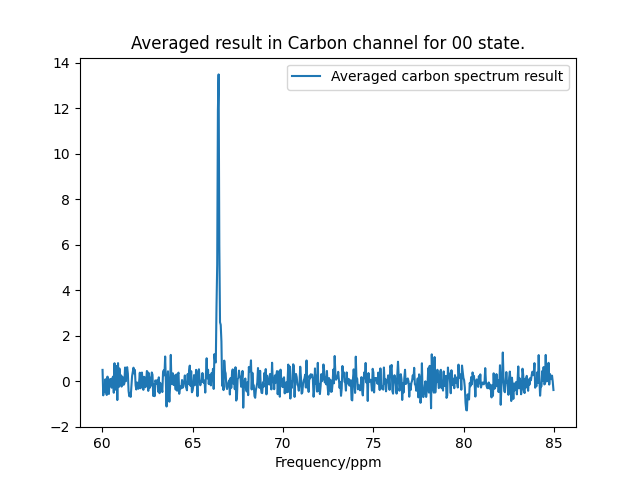
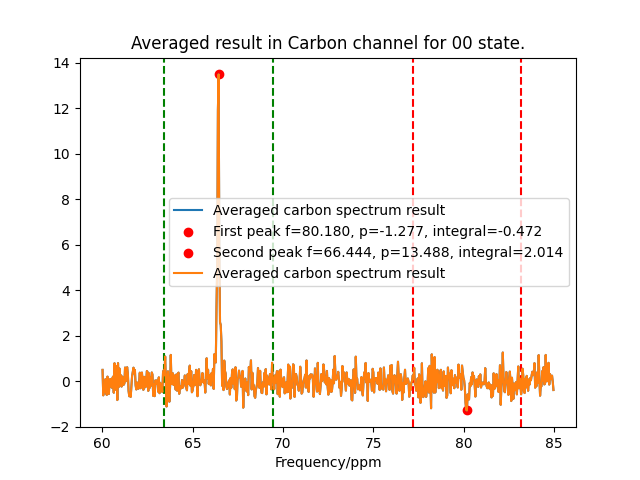
Support integration

diff --git a/Simulator/NMRdensity.py b/Simulator/NMRdensity.py
@@ -3,6 +3,38 @@ from Simulator.Pulses import pulse, pulseSingle, pulseTwo, delayTime, BarrierPul
 from Simulator.params import *
 import pandas as pd
 from Simulator.util import *
+from scipy.integrate import simps
+
+proton_int_range = 3
+carbon_int_range = 3
+
+
+def integrate_spectrum(X, Y, xmin, xmax):
+    """
+    Integrates the spectrum data between xmin and xmax.
+
+    Parameters:
+    - X: List of positions.
+    - Y: List of spectrum data corresponding to the positions.
+    - xmin: Minimum value of X for integration.
+    - xmax: Maximum value of X for integration.
+
+    Returns:
+    - The numerical integral of the spectrum data between xmin and xmax.
+    """
+    # Convert lists to numpy arrays for efficient operations
+    X_array = np.array(X)
+    Y_array = np.array(Y)
+
+    # Filter the arrays to include only the range between xmin and xmax
+    mask = (X_array >= xmin) & (X_array <= xmax)
+    X_filtered = X_array[mask]
+    Y_filtered = Y_array[mask]
+
+    # Use Simpson's rule for numerical integration over the filtered range
+    integral = simps(Y_filtered, X_filtered)
+
+    return integral
 
 
 def thermal_equilibrium_density():
@@ -83,9 +115,11 @@ class chloroform:
         self._data_proton_ppm = []
         self._data_proton_freq_domain_real = []
         self._data_proton_peaks_real = []
+        self._data_proton_peaks_integral_real = []
         self._data_proton_peaks_pos_real = []
         self._data_proton_freq_domain_imag = []
         self._data_proton_peaks_imag = []
+        self._data_proton_peaks_integral_imag = []
         self._data_proton_peaks_pos_imag = []
 
         self._carbon_time_domain = []
@@ -99,9 +133,11 @@ class chloroform:
         self._data_carbon_ppm = []
         self._data_carbon_freq_domain_real = []
         self._data_carbon_peaks_real = []
+        self._data_carbon_peaks_integral_real = []
         self._data_carbon_peaks_pos_real = []
         self._data_carbon_freq_domain_imag = []
         self._data_carbon_peaks_imag = []
+        self._data_carbon_peaks_integral_imag = []
         self._data_carbon_peaks_pos_imag = []
 
         self._density = np.zeros((4, 4), dtype=complex)
@@ -266,7 +302,7 @@ class chloroform:
         self.add_pulse(delayTime(0.5 / Jfreq))
         self.add_pulse(pulseSingle(3, 0.5 * pl90H, wH))
 
-        #self.add_pulse(pulseTwo(3, 0.5 * pl90H, wH, 0, 0.5 * pl90C, wC))
+        # self.add_pulse(pulseTwo(3, 0.5 * pl90H, wH, 0, 0.5 * pl90C, wC))
         self.add_pulse(pulseSingle(0, 0.5 * pl90C, wC))
         self.add_pulse(delayTime(0.5 / Jfreq))
         self.add_pulse(pulseSingle(3, 0.5 * pl90C, wC))
@@ -504,19 +540,59 @@ class chloroform:
                 positions, values = find_two_largest_peaks(self._data_proton_ppm, self._data_proton_freq_domain_real)
                 self._data_proton_peaks_real = values
                 self._data_proton_peaks_pos_real = positions
+                '''
+                Append two integrals for two peaks.
+                '''
+                self._data_proton_peaks_integral_real.append(
+                    integrate_spectrum(self._data_proton_ppm, self._data_proton_freq_domain_real,
+                                       positions[0] - proton_int_range, positions[0] + proton_int_range))
+
+                self._data_proton_peaks_integral_real.append(
+                    integrate_spectrum(self._data_proton_ppm, self._data_proton_freq_domain_real,
+                                       positions[1] - proton_int_range, positions[1] + proton_int_range))
+
             else:
                 positions, values = find_two_largest_peaks(self._data_proton_ppm, self._data_proton_freq_domain_imag)
                 self._data_proton_peaks_imag = values
                 self._data_proton_peaks_pos_imag = positions
+                '''
+                Append two integrals for two peaks.
+                '''
+                self._data_proton_peaks_integral_imag.append(
+                    integrate_spectrum(self._data_proton_ppm, self._data_proton_freq_domain_imag,
+                                       positions[0] - proton_int_range, positions[0] + proton_int_range))
+
+                self._data_proton_peaks_integral_imag.append(
+                    integrate_spectrum(self._data_proton_ppm, self._data_proton_freq_domain_imag,
+                                       positions[1] - proton_int_range, positions[1] + proton_int_range))
         else:
             if isreal:
                 positions, values = find_two_largest_peaks(self._data_carbon_ppm, self._data_carbon_freq_domain_real)
                 self._data_carbon_peaks_real = values
                 self._data_carbon_peaks_pos_real = positions
+
+                '''
+                Append two integrals for two peaks.
+                '''
+                self._data_carbon_peaks_integral_real.append(
+                    integrate_spectrum(self._data_carbon_ppm, self._data_carbon_freq_domain_real,
+                                       positions[0] - carbon_int_range, positions[0] + carbon_int_range))
+
+                self._data_carbon_peaks_integral_real.append(
+                    integrate_spectrum(self._data_carbon_ppm, self._data_carbon_freq_domain_real,
+                                       positions[1] - carbon_int_range, positions[1] + carbon_int_range))
             else:
                 positions, values = find_two_largest_peaks(self._data_carbon_ppm, self._data_carbon_freq_domain_imag)
                 self._data_carbon_peaks_imag = values
                 self._data_carbon_peaks_pos_imag = positions
+
+                self._data_carbon_peaks_integral_imag.append(
+                    integrate_spectrum(self._data_carbon_ppm, self._data_carbon_freq_domain_imag,
+                                       positions[0] - carbon_int_range, positions[0] + carbon_int_range))
+
+                self._data_carbon_peaks_integral_imag.append(
+                    integrate_spectrum(self._data_carbon_ppm, self._data_carbon_freq_domain_imag,
+                                       positions[1] - carbon_int_range, positions[1] + carbon_int_range))
 
     '''
     Load the spectrum data from a give path
@@ -551,19 +627,34 @@ class chloroform:
             plt.plot(self._data_carbon_ppm, self._data_carbon_freq_domain_real, label='Real Part', color='blue')
 
         if isproton:
+
+            plt.axvline(x=self._data_proton_peaks_pos_real[0] - proton_int_range, color="red", linestyle="--")
+            plt.axvline(x=self._data_proton_peaks_pos_real[0] + proton_int_range, color="red", linestyle="--")
+            plt.axvline(x=self._data_proton_peaks_pos_real[1] - proton_int_range, color="green", linestyle="--")
+            plt.axvline(x=self._data_proton_peaks_pos_real[1] + proton_int_range, color="green", linestyle="--")
             plt.scatter(self._data_proton_peaks_pos_real[0], self._data_proton_peaks_real[0], color="red",
-                        label="First peak f={}, p={}".format(self._data_proton_peaks_pos_real[0],
-                                                             self._data_proton_peaks_real[0]))
+                        label="First peak f={:.3f}, p={:.3f}, integral={:.3f}".format(self._data_proton_peaks_pos_real[0],
+                                                                          self._data_proton_peaks_real[0],
+                                                                          self._data_proton_peaks_integral_real[0]))
             plt.scatter(self._data_proton_peaks_pos_real[1], self._data_proton_peaks_real[1], color="red",
-                        label="First peak f={}, p={}".format(self._data_proton_peaks_pos_real[1],
-                                                             self._data_proton_peaks_real[1]))
+                        label="Second peak f={:.3f}, p={:.3f}, integral={:.3f}".format(self._data_proton_peaks_pos_real[1],
+                                                                           self._data_proton_peaks_real[1],
+                                                                           self._data_proton_peaks_integral_real[1]))
+
         else:
+
+            plt.axvline(x=self._data_carbon_peaks_pos_real[0] - carbon_int_range, color="red", linestyle="--")
+            plt.axvline(x=self._data_carbon_peaks_pos_real[0] + carbon_int_range, color="red", linestyle="--")
+            plt.axvline(x=self._data_carbon_peaks_pos_real[1] - carbon_int_range, color="green", linestyle="--")
+            plt.axvline(x=self._data_carbon_peaks_pos_real[1] + carbon_int_range, color="green", linestyle="--")
             plt.scatter(self._data_carbon_peaks_pos_real[0], self._data_carbon_peaks_real[0], color="red",
-                        label="First peak f={}, p={}".format(self._data_carbon_peaks_pos_real[0],
-                                                             self._data_carbon_peaks_real[0]))
+                        label="First peak f={:.3f}, p={:.3f}, integral={:.3f}".format(self._data_carbon_peaks_pos_real[0],
+                                                                          self._data_carbon_peaks_real[0],
+                                                                          self._data_carbon_peaks_integral_real[0]))
             plt.scatter(self._data_carbon_peaks_pos_real[1], self._data_carbon_peaks_real[1], color="red",
-                        label="First peak f={}, p={}".format(self._data_carbon_peaks_pos_real[1],
-                                                             self._data_carbon_peaks_real[1]))
+                        label="Second peak f={:.3f}, p={:.3f}, integral={:.3f}".format(self._data_carbon_peaks_pos_real[1],
+                                                                           self._data_carbon_peaks_real[1],
+                                                                           self._data_carbon_peaks_integral_real[1]))
         # Optionally, plot the imaginary part of the spectrum on the same plot
         # Uncomment the next line if you want to include the imaginary part in the plot
         # plt.plot(data['Frequency (ppm)'], data['Imaginary Part'], label='Imaginary Part', color='red')
@@ -681,6 +772,10 @@ class chloroform:
         print("################################")
         output = output + "parList=endpp()"
         return output
+
+    @property
+    def data_proton_peaks_pos_real(self):
+        return self._data_proton_peaks_pos_real
 
 
 import matplotlib.pyplot as plt

diff --git a/dataprocess.py b/dataprocess.py
@@ -28,8 +28,27 @@ def average_proton_spectrum(sample0: chloroform, sample1: chloroform, sample2: c
                           data_proton_freq_domain_real1 +
                           data_proton_freq_domain_real2) / 3
 
+    avg_sample = chloroform()
+    avg_sample._data_proton_ppm = data_proton_ppm0
+    avg_sample._data_proton_freq_domain_real = avg_data_freq_real
+    avg_sample.determine_peaks(isproton=True, isreal=True)
+
     plt.plot(data_proton_ppm0, avg_data_freq_real, label="Averaged proton spectrum result")
     plt.xlabel("Frequency/ppm")
+
+    plt.axvline(x=avg_sample._data_proton_peaks_pos_real[0] - proton_int_range, color="red", linestyle="--")
+    plt.axvline(x=avg_sample._data_proton_peaks_pos_real[0] + proton_int_range, color="red", linestyle="--")
+    plt.axvline(x=avg_sample._data_proton_peaks_pos_real[1] - proton_int_range, color="green", linestyle="--")
+    plt.axvline(x=avg_sample._data_proton_peaks_pos_real[1] + proton_int_range, color="green", linestyle="--")
+    plt.scatter(avg_sample._data_proton_peaks_pos_real[0], avg_sample._data_proton_peaks_real[0], color="red",
+                label="First peak f={:.3f}, p={:.3f}, integral={:.3f}".format(avg_sample._data_proton_peaks_pos_real[0],
+                                                                  avg_sample._data_proton_peaks_real[0],
+                                                                  avg_sample._data_proton_peaks_integral_real[0]))
+    plt.scatter(avg_sample._data_proton_peaks_pos_real[1], avg_sample._data_proton_peaks_real[1], color="red",
+                label="Second peak f={:.3f}, p={:.3f}, integral={:.3f}".format(avg_sample._data_proton_peaks_pos_real[1],
+                                                                   avg_sample._data_proton_peaks_real[1],
+                                                                   avg_sample._data_proton_peaks_integral_real[1]))
+
     if store:
         plt.title(storetitle)
         plt.legend()
@@ -55,6 +74,27 @@ def average_carbon_spectrum(sample0: chloroform, sample1: chloroform, sample2: c
     avg_data_freq_real = (data_carbon_freq_domain_real0 +
                           data_carbon_freq_domain_real1 +
                           data_carbon_freq_domain_real2) / 3
+
+    avg_sample = chloroform()
+    avg_sample._data_carbon_ppm = data_carbon_ppm0
+    avg_sample._data_carbon_freq_domain_real = avg_data_freq_real
+    avg_sample.determine_peaks(isproton=False, isreal=True)
+
+    plt.plot(data_carbon_ppm0, avg_data_freq_real, label="Averaged carbon spectrum result")
+    plt.xlabel("Frequency/ppm")
+
+    plt.axvline(x=avg_sample._data_carbon_peaks_pos_real[0] - carbon_int_range, color="red", linestyle="--")
+    plt.axvline(x=avg_sample._data_carbon_peaks_pos_real[0] + carbon_int_range, color="red", linestyle="--")
+    plt.axvline(x=avg_sample._data_carbon_peaks_pos_real[1] - carbon_int_range, color="green", linestyle="--")
+    plt.axvline(x=avg_sample._data_carbon_peaks_pos_real[1] + carbon_int_range, color="green", linestyle="--")
+    plt.scatter(avg_sample._data_carbon_peaks_pos_real[0], avg_sample._data_carbon_peaks_real[0], color="red",
+                label="First peak f={:.3f}, p={:.3f}, integral={:.3f}".format(avg_sample._data_carbon_peaks_pos_real[0],
+                                                                  avg_sample._data_carbon_peaks_real[0],
+                                                                  avg_sample._data_carbon_peaks_integral_real[0]))
+    plt.scatter(avg_sample._data_carbon_peaks_pos_real[1], avg_sample._data_carbon_peaks_real[1], color="red",
+                label="Second peak f={:.3f}, p={:.3f}, integral={:.3f}".format(avg_sample._data_carbon_peaks_pos_real[1],
+                                                                   avg_sample._data_carbon_peaks_real[1],
+                                                                   avg_sample._data_carbon_peaks_integral_real[1]))
 
     plt.plot(data_carbon_ppm0, avg_data_freq_real, label="Averaged carbon spectrum result")
     plt.xlabel("Frequency/ppm")
